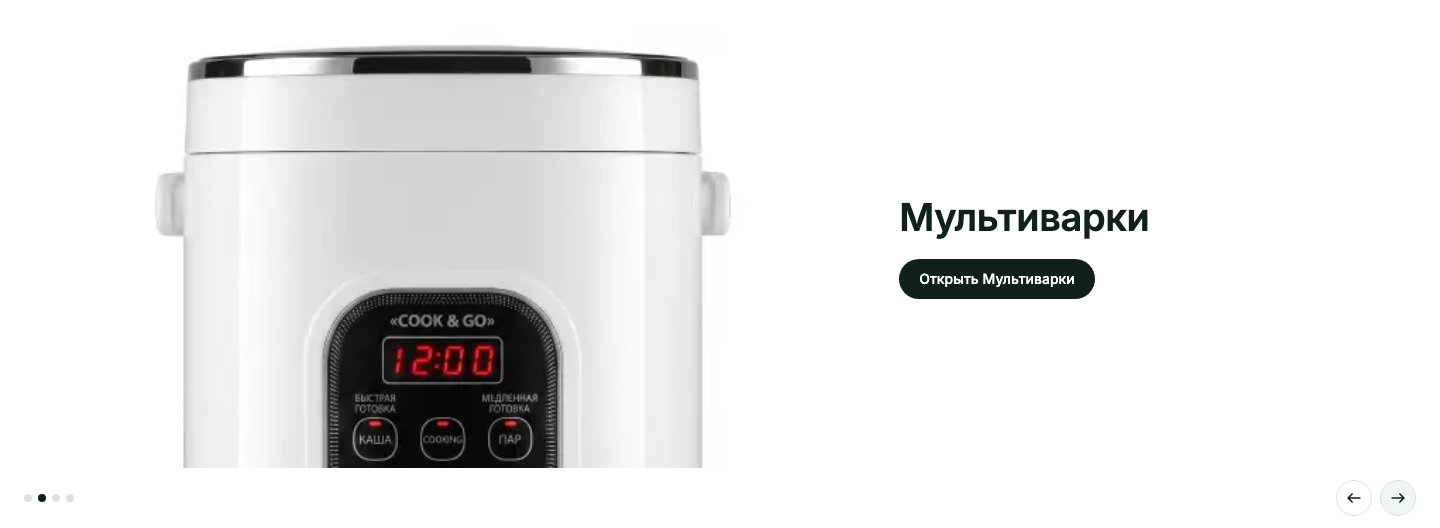
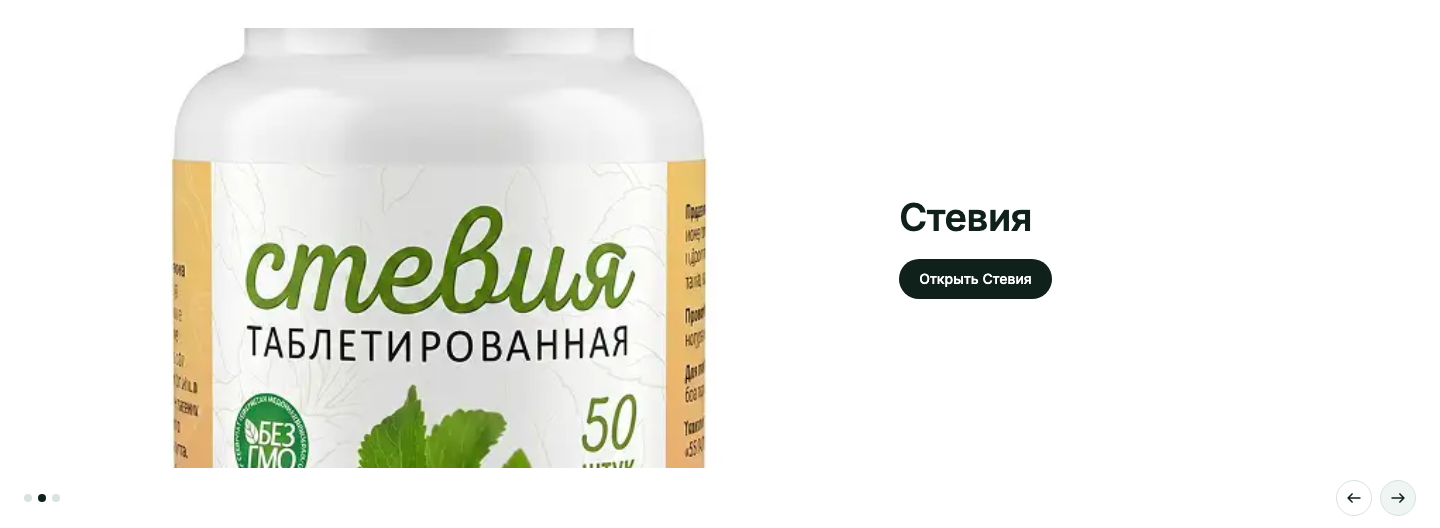
docs(evidence): t-2026-09-24-n15 re-shoot home and hero-slider groups after the demo clean-up (t-2026-09-24-n15)

diff --git a/apps/storefront/docs/evidence/t-2026-09-24-n15/report.md b/apps/storefront/docs/evidence/t-2026-09-24-n15/report.md
@@ -9,13 +9,13 @@ Figma pass.
 
 | Group | What it shows |
 |---|---|
-| `home/` | The whole home page `/ru`, full height: h7 header, Cover, Navigation, HeroSlider, then the tenant's own composed blocks (hero k, category tiles, listing p4) and the footer. |
-| `header/` | The h7 header element alone: logo (shop name), five category links + «Все товары», mode toggle, search, RU/₽ switcher, account, cart at 1440; burger + logo + cart at 768 and 390 (the rest lives in the bottom nav). |
+| `home/` | The whole home page `/ru`, full height: h7 header, Cover, Navigation, HeroSlider, then the tenant's listing p4 and the footer (the category-tiles block self-suppresses on this tenant: none of its categories has an image, the same as on `dev`). The composed hero k is skipped under the demo blocks (the Cover carries the shop's promo once). Shots of `home/`, `hero-slider/`, `hero-slider-slide-2/` are from commit 589cda70; the other groups from 7e2631b1 (unchanged there). |
+| `header/` | The h7 header element alone: logo (shop name), five category links + «Все товары», mode toggle, search, RU/₽ switcher, account, cart at 1440; burger + logo + cart at 768 and 390 (the rest lives in the bottom nav). **Visually = h2 until the Figma mockup arrives**: nothing was invented for it. |
 | `header-mobile-menu-open/` | The header's side menu opened from the burger; 768 and 390 only — at 1440 the burger does not exist, so there is no such state. |
 | `cover/` | The Cover block: tenant hero copy («Заказ от 5 кг — скидка 10%», subtitle, CTA) over the tenant's hero photograph with a left scrim. |
 | `navigation/` | The Navigation block: all nine top-level categories in the owner's order plus «Все товары»; scrolls horizontally at 390. |
-| `hero-slider/` | The HeroSlider block on slide 1 of 4 (the tenant's hero), with dots and arrows. |
-| `hero-slider-slide-2/` | The same block after one «Далее» click: slide 2 of 4, the first category («Мультиварки») illustrated by one of its own product photographs. |
+| `hero-slider/` | The HeroSlider block on slide 1 of 3 (the first category, «Мультиварки», illustrated by one of its own product photographs), with dots and arrows. |
+| `hero-slider-slide-2/` | The same block after one «Далее» click: slide 2 of 3, the second category («Стевия»). |
 | `store/` | `/ru/store` viewport: the h7 header above the catalog page, proving the header is site-wide. |
 
 Notes on the dev render: Next's dev overlay (`nextjs-portal`) is hidden in the shots. In `dark` the console carries
